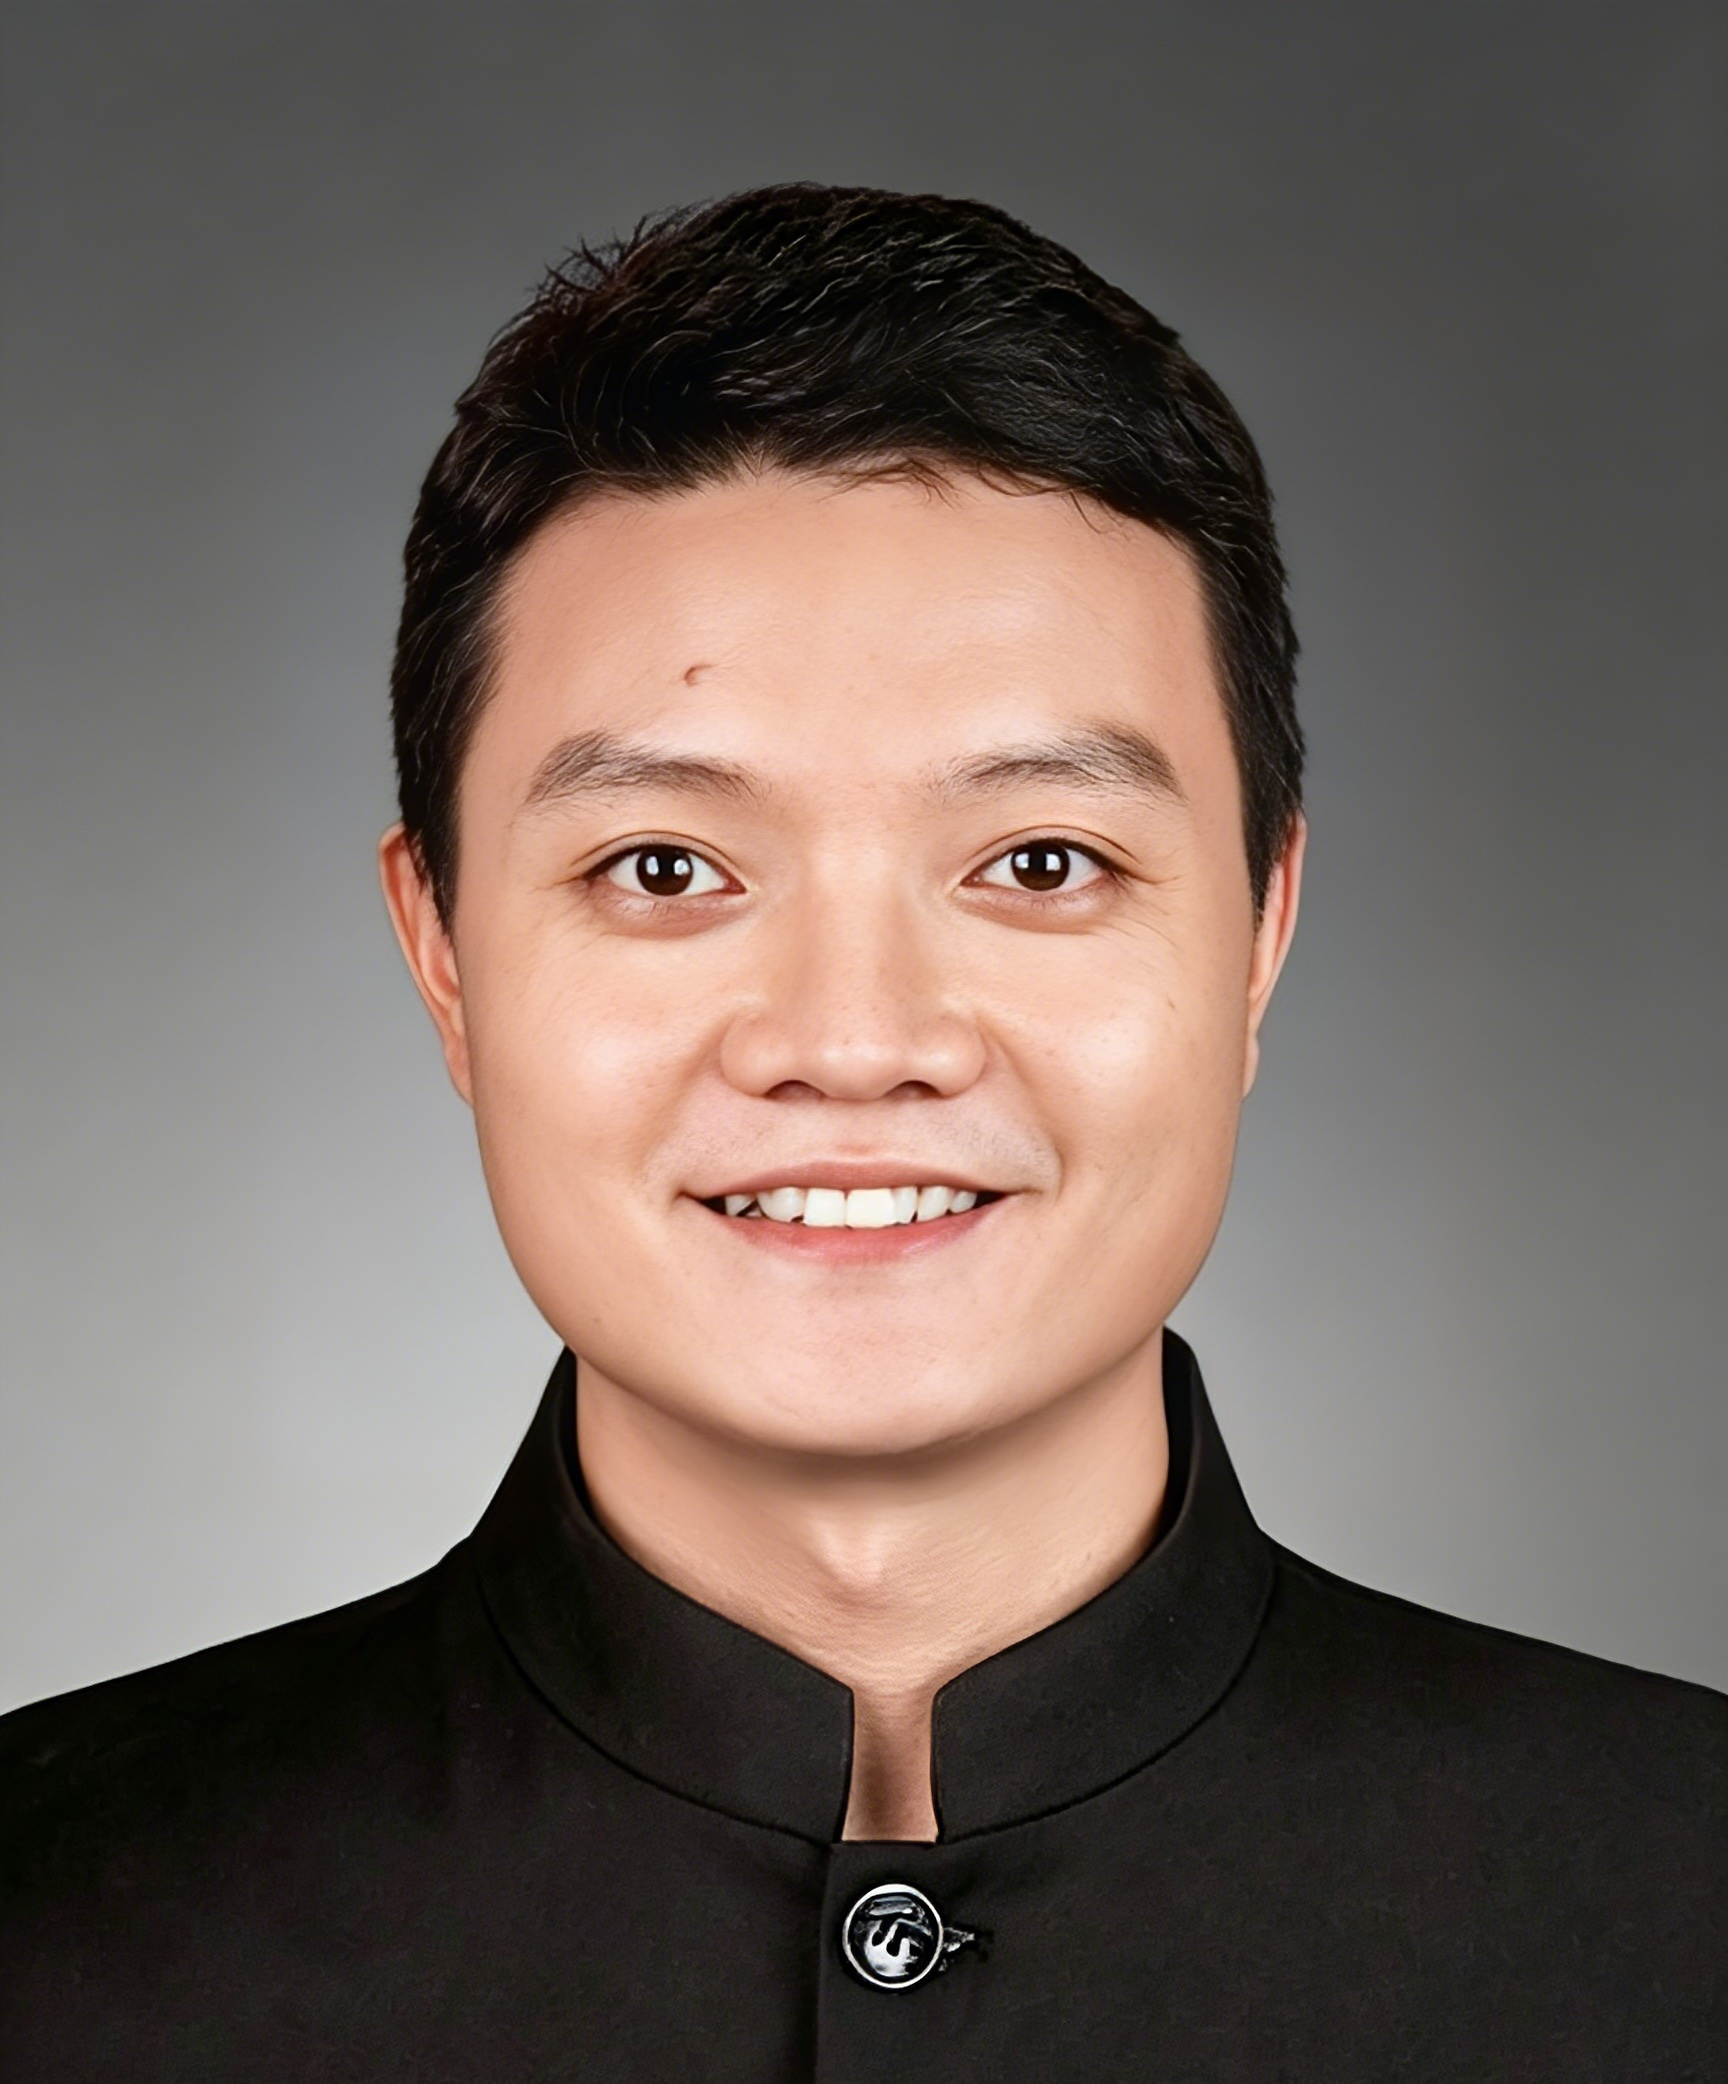
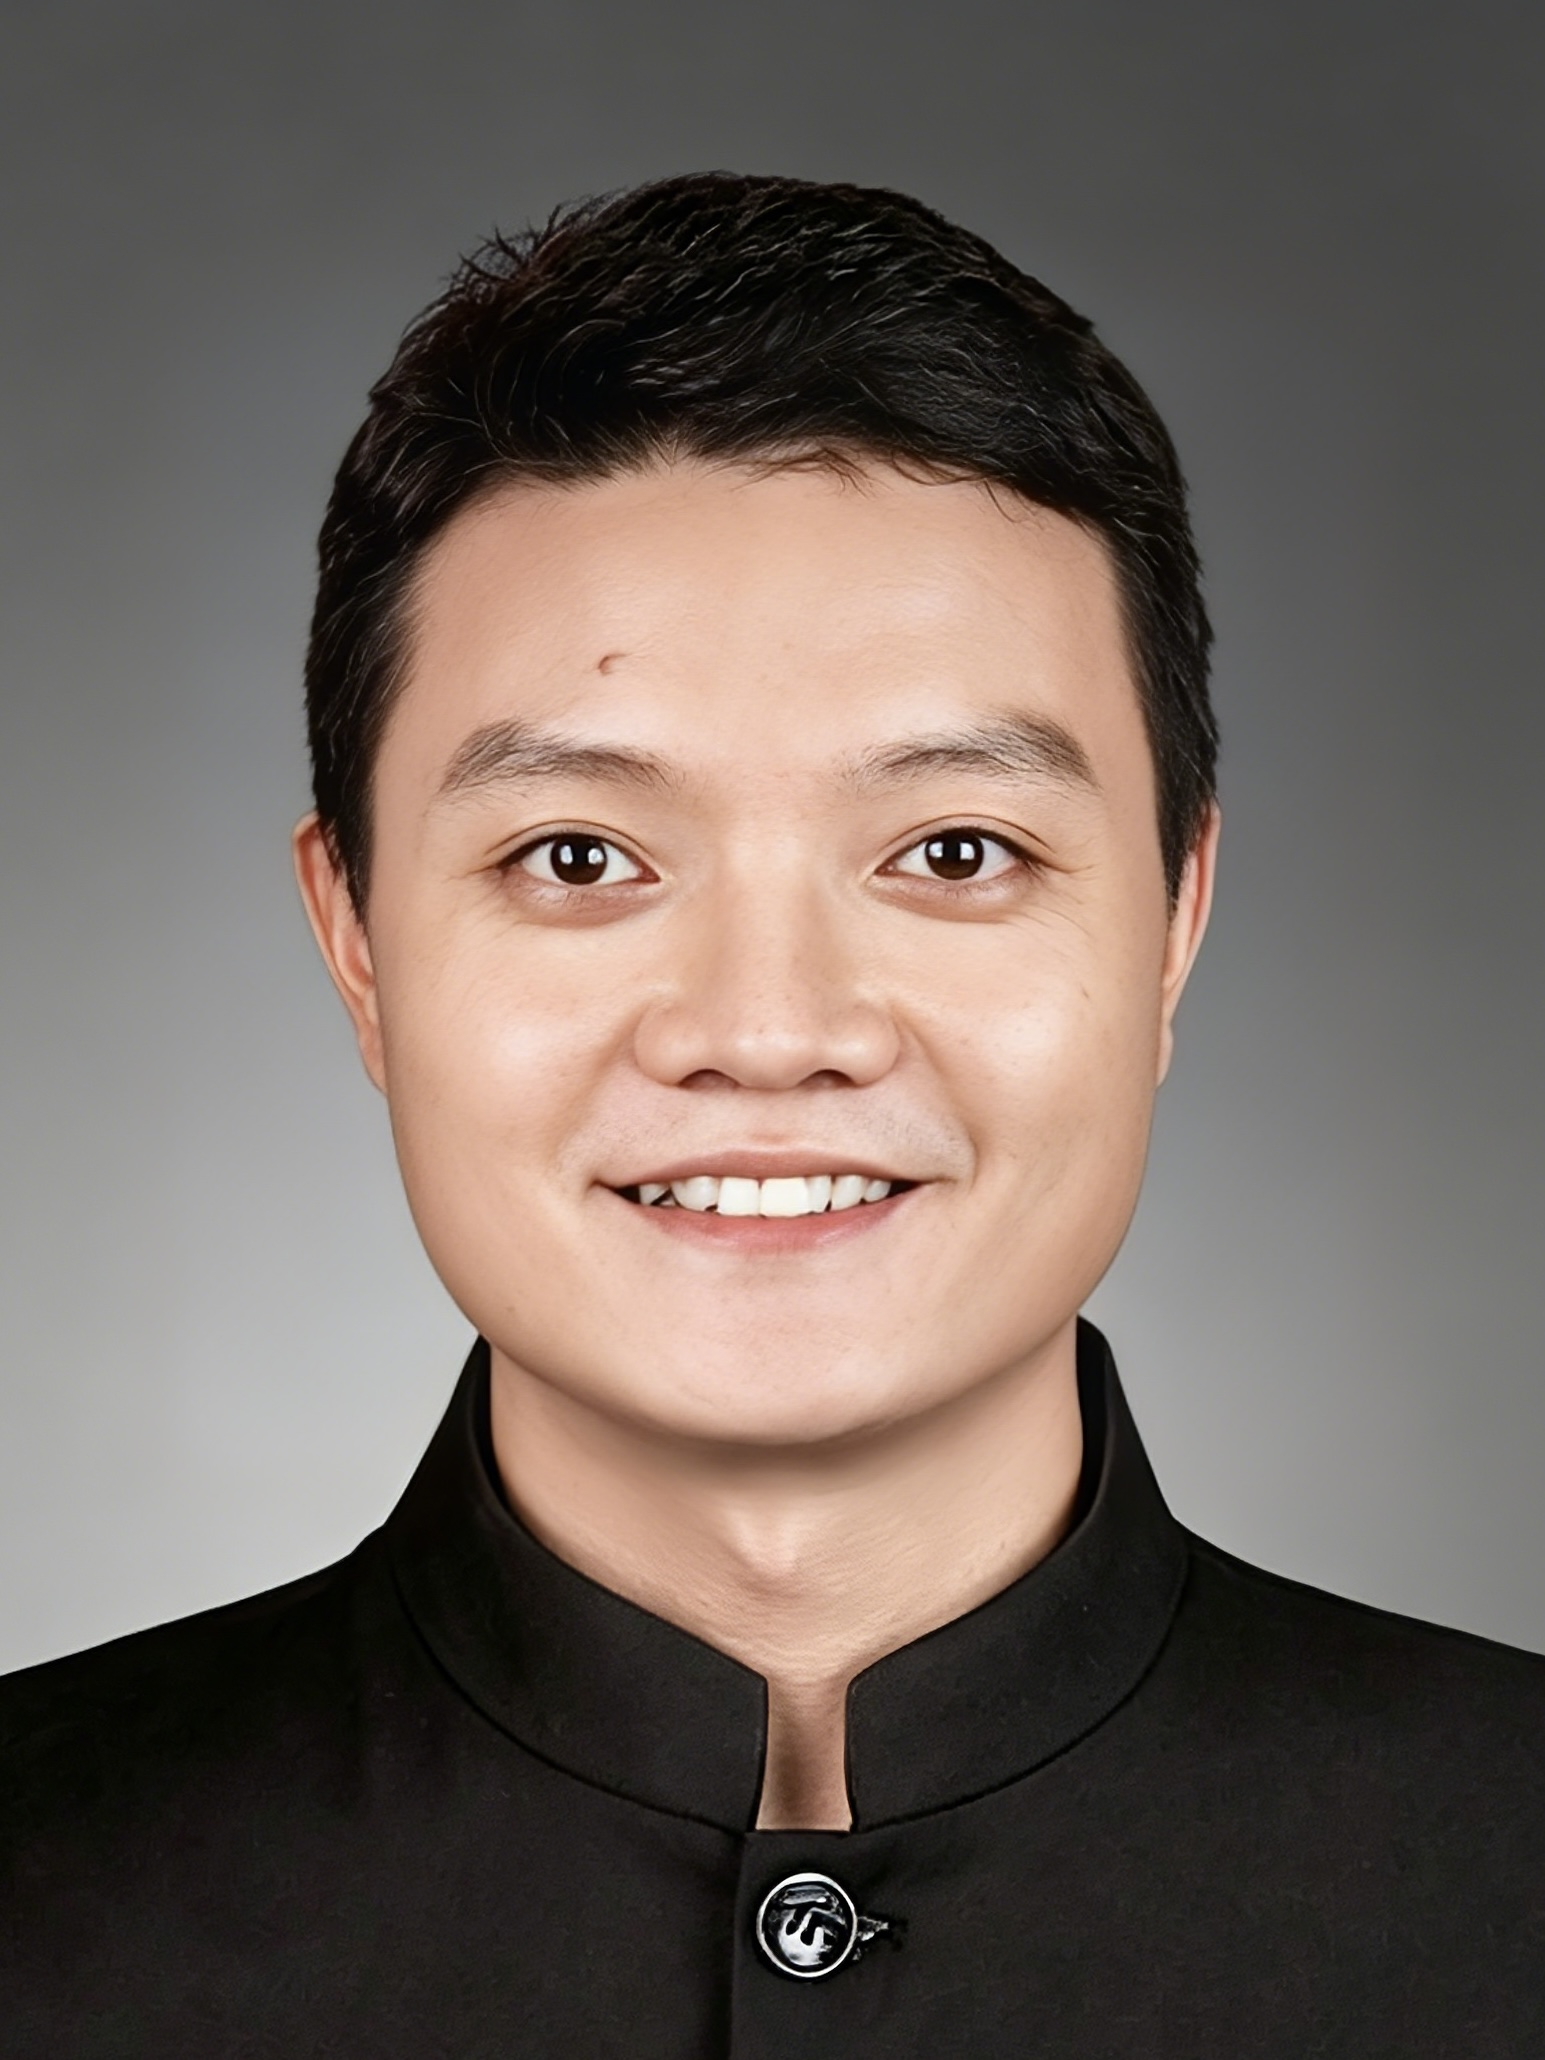
Add files via upload

diff --git a/index.html b/index.html
@@ -1348,9 +1348,9 @@
                             <img src="student1.jpg" class="team-avatar" alt="Student 1">
                         </div>
                         <div class="team-info">
-                            <h5 class="team-name">a hhh</h5>
-                            <p class="text-accent fw-semibold mb-1">Ph.D. Student</p>
-                            <p class="text-muted small mb-0">Imaging techniques & AI</p>
+                            <h5 class="team-name">Dr. Yikang Yu</h5>
+                            <p class="text-accent fw-semibold mb-1">Postdoc</p>
+                            <p class="text-muted small mb-0">Anode & Electrolyte</p>
                         </div>
                     </div>
                 </div>
@@ -1362,9 +1362,9 @@
                             <img src="student2.jpg" class="team-avatar" alt="Student 2">
                         </div>
                         <div class="team-info">
-                            <h5 class="team-name">a hhh</h5>
-                            <p class="text-accent fw-semibold mb-1">Ph.D. Student</p>
-                            <p class="text-muted small mb-0">Cathode & Spectroscopy</p>
+                            <h5 class="team-name">Ruichen Zhu</h5>
+                            <p class="text-accent fw-semibold mb-1">Ph.D. Student 2024</p>
+                            <p class="text-muted small mb-0">Cathode & TXM & AI</p>
                         </div>
                     </div>
                 </div>
@@ -1373,12 +1373,110 @@
                 <div class="col-md-6 col-lg-3">
                     <div class="team-card">
                         <div class="team-img-wrapper">
-                            <img src="student3.jpg" class="team-avatar" alt="Student 3">
+                            <img src="student2.jpg" class="team-avatar" alt="Student 3">
                         </div>
                         <div class="team-info">
-                            <h5 class="team-name">a hhh</h5>
-                            <p class="text-accent fw-semibold mb-1">M.S. Student</p>
-                            <p class="text-muted small mb-0">Cathode & Diffraction</p>
+                            <h5 class="team-name">Jiahui Xu</h5>
+                            <p class="text-accent fw-semibold mb-1">M.S. Student 2024</p>
+                            <p class="text-muted small mb-0">LiNiO2 & Diffraction (imaging)</p>
+                        </div>
+                    </div>
+                </div>
+
+                <!-- Member 5 -->
+                <div class="col-md-6 col-lg-3">
+                    <div class="team-card">
+                        <div class="team-img-wrapper">
+                            <img src="student2.jpg" class="team-avatar" alt="Student 5">
+                        </div>
+                        <div class="team-info">
+                            <h5 class="team-name">Jiayao Guo</h5>
+                            <p class="text-accent fw-semibold mb-1">Ph.D. Student 2025</p>
+                            <p class="text-muted small mb-0">Crystal growth & Diffraction (imaging)</p>
+                        </div>
+                    </div>
+                </div>
+
+                <!-- Member 6 -->
+                <div class="col-md-6 col-lg-3">
+                    <div class="team-card">
+                        <div class="team-img-wrapper">
+                            <img src="student1.jpg" class="team-avatar" alt="Student 6">
+                        </div>
+                        <div class="team-info">
+                            <h5 class="team-name">Di Wang</h5>
+                            <p class="text-accent fw-semibold mb-1">M.S. Student 2025</p>
+                            <p class="text-muted small mb-0">Solid-state battery & Spectroscopy</p>
+                        </div>
+                    </div>
+                </div>
+
+                <!-- Member 7 -->
+                <div class="col-md-6 col-lg-3">
+                    <div class="team-card">
+                        <div class="team-img-wrapper">
+                            <img src="student1.jpg" class="team-avatar" alt="Student 7">
+                        </div>
+                        <div class="team-info">
+                            <h5 class="team-name">Hanlin Wang</h5>
+                            <p class="text-accent fw-semibold mb-1">Ph.D. Student 2026</p>
+                            <p class="text-muted small mb-0">...</p>
+                        </div>
+                    </div>
+                </div>
+
+                <!-- Member 8 -->
+                <div class="col-md-6 col-lg-3">
+                    <div class="team-card">
+                        <div class="team-img-wrapper">
+                            <img src="student1.jpg" class="team-avatar" alt="Student 8">
+                        </div>
+                        <div class="team-info">
+                            <h5 class="team-name">Xiuyu Chen</h5>
+                            <p class="text-accent fw-semibold mb-1">M.S. Student 2026</p>
+                            <p class="text-muted small mb-0">Li- and Mn-rich cathode & TXM</p>
+                        </div>
+                    </div>
+                </div>
+
+                <!-- Member 9 -->
+                <div class="col-md-6 col-lg-3">
+                    <div class="team-card">
+                        <div class="team-img-wrapper">
+                            <img src="student1.jpg" class="team-avatar" alt="Student 9">
+                        </div>
+                        <div class="team-info">
+                            <h5 class="team-name">Dr. Xueyan Zhang</h5>
+                            <p class="text-accent fw-semibold mb-1">Co-Supervised Postdoc</p>
+                            <p class="text-muted small mb-0">Solid-state battery & NMR</p>
+                        </div>
+                    </div>
+                </div>
+
+                <!-- Member 10 -->
+                <div class="col-md-6 col-lg-3">
+                    <div class="team-card">
+                        <div class="team-img-wrapper">
+                            <img src="student1.jpg" class="team-avatar" alt="Student 10">
+                        </div>
+                        <div class="team-info">
+                            <h5 class="team-name">Dr. Xiaopeng Li</h5>
+                            <p class="text-accent fw-semibold mb-1">Co-Supervised Postdoc</p>
+                            <p class="text-muted small mb-0">Cathode materials</p>
+                        </div>
+                    </div>
+                </div>
+
+                <!-- Member 10 -->
+                <div class="col-md-6 col-lg-3">
+                    <div class="team-card">
+                        <div class="team-img-wrapper">
+                            <img src="student1.jpg" class="team-avatar" alt="Student 10">
+                        </div>
+                        <div class="team-info">
+                            <h5 class="team-name">Jianwen Ge</h5>
+                            <p class="text-accent fw-semibold mb-1">Co-Supervised Postdoc</p>
+                            <p class="text-muted small mb-0">Solid-state battery</p>
                         </div>
                     </div>
                 </div>